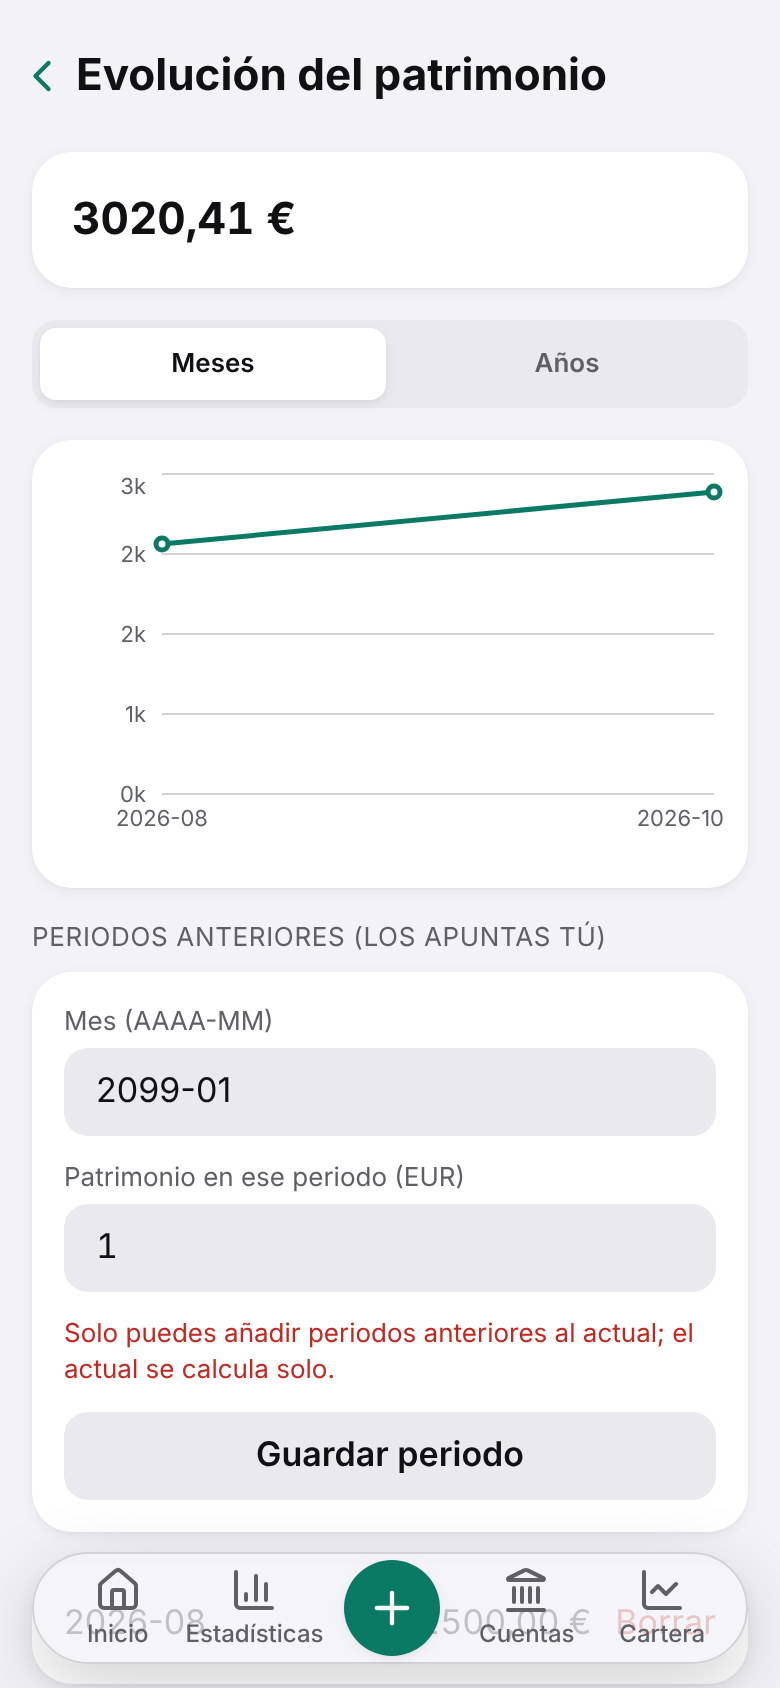
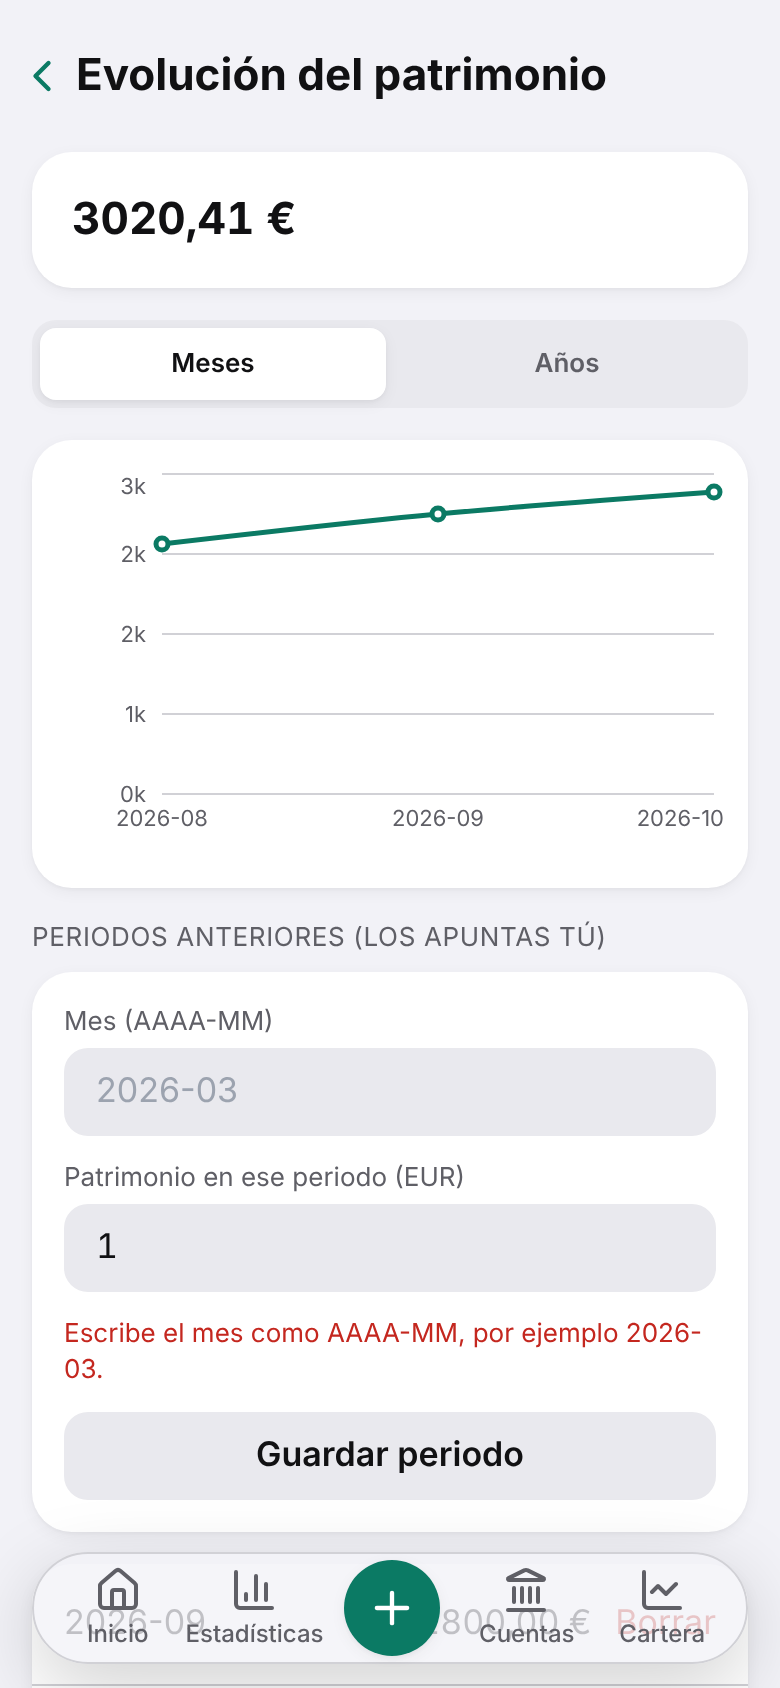
Vibración al tocar, opcional y experimental (#4)
Claude-Session: https://claude.ai/code/session_01WbKhADCuFWBPoVLx2G26Bw

diff --git a/app/src/pages/SettingsPages.tsx b/app/src/pages/SettingsPages.tsx
@@ -10,6 +10,7 @@ import { toCents } from '../lib/money';
 import { exportBackup, restoreBackup, summarizeBackup, validateBackup, wipeAll, type Backup } from '../lib/backup';
 import { aiInstructions, commitImport, CSV_TEMPLATE, MAX_IMPORT_ROWS, parseImport, transactionsToCsv, undoImport, type ImportRow } from '../lib/csvio';
 import { checkPin, clearPin, setPin } from '../lib/lock';
+import { tap } from '../lib/haptics';
 import { download, fmtBytes, requestPersistence, shareOrDownload, storageStatus, type StorageStatus } from '../lib/storage';
 import { useFx, useMoney, useSetting } from '../lib/hooks';
 import { BackHeader, DangerButton, Field, Group, Row, Section, Skeleton, Banner, fmtDate } from '../components/ui';
@@ -401,6 +402,7 @@ export function DataPage() {
 export function Preferences() {
   const theme = useSetting<string>('theme', 'auto') ?? 'auto';
   const currency = useSetting<string>('currency', 'EUR') ?? 'EUR';
+  const haptics = useSetting<boolean>('haptics', false) ?? false;
   return (
     <>
       <BackHeader title="Preferencias" to="/settings" />
@@ -410,7 +412,11 @@ export function Preferences() {
         <label className="flex min-h-tap items-center justify-between px-4"><span>Tema</span>
           <select className="bg-transparent text-text-muted outline-none" value={theme} onChange={(e) => setSetting('theme', e.target.value)}>
             <option value="auto">Automático</option><option value="light">Claro</option><option value="dark">Oscuro</option></select></label>
+        <label className="flex min-h-tap items-center justify-between px-4"><span>Vibración al tocar (experimental)</span>
+          <input type="checkbox" role="switch" className="size-6" checked={haptics} onChange={(e) => { void setSetting('haptics', e.target.checked); }} aria-label="Vibración al tocar" /></label>
+        {haptics && <Row onClick={() => tap()} right={<span className="text-accent">Probar</span>}>Probar el toque</Row>}
       </Group>
+      <p className="mt-3 text-footnote text-text-muted">Para que el <strong>teclado</strong> vibre al escribir, actívalo en el iPhone: Ajustes &gt; Sonidos y vibración &gt; Respuesta del teclado &gt; Vibración. La vibración de los botones depende de tu versión de iOS y de que la «Respuesta háptica del sistema» esté activada en esos mismos ajustes.</p>
       <p className="mt-3 text-footnote text-text-muted">Cambiar la moneda principal no modifica tus cuentas: solo cómo se suman los totales.</p>
     </>
   );

diff --git a/app/src/lib/haptics.ts b/app/src/lib/haptics.ts
@@ -1,0 +1,51 @@
+import { useEffect } from 'react';
+import { useSetting } from './hooks';
+
+/**
+ * Toque háptico al pulsar botones.
+ * - Android y navegadores con Vibration API: navigator.vibrate.
+ * - iPhone: Safari no tiene esa API, pero (iOS 17.4+) un interruptor nativo `<input type="checkbox" switch>`
+ *   da un toque háptico al activarse. Se mantiene uno oculto y se «pulsa» desde un toque real del usuario.
+ *   No hay forma de comprobar desde fuera si el móvil llega a vibrar: depende del iOS y de que el
+ *   «Respuesta háptica del sistema» esté activado en Ajustes > Sonidos y vibración.
+ */
+let label: HTMLLabelElement | null = null;
+
+function ensureSwitch(): HTMLLabelElement {
+  if (label?.isConnected) return label;
+  label = document.createElement('label');
+  label.setAttribute('aria-hidden', 'true');
+  label.setAttribute('data-haptic-ignore', '');
+  label.style.cssText = 'position:fixed;left:-100px;top:-100px;width:1px;height:1px;opacity:0;pointer-events:none;overflow:hidden';
+  const input = document.createElement('input');
+  input.type = 'checkbox';
+  input.setAttribute('switch', '');
+  input.tabIndex = -1;
+  label.appendChild(input);
+  document.body.appendChild(label);
+  return label;
+}
+
+export function tap(): void {
+  try {
+    if (typeof navigator.vibrate === 'function') { navigator.vibrate(10); return; }
+    ensureSwitch().click();
+  } catch { /* sin soporte: no pasa nada */ }
+}
+
+const INTERACTIVE = 'button,a[href],[role="radio"],[role="switch"],select,summary,input[type="checkbox"],input[type="radio"]';
+
+/** Con la opción activada, cada toque en un control real da un toque háptico. */
+export function useHaptics() {
+  const on = useSetting<boolean>('haptics', false);
+  useEffect(() => {
+    if (!on) return;
+    const handler = (e: Event) => {
+      const t = e.target as Element | null;
+      if (!t?.closest || t.closest('[data-haptic-ignore]')) return;
+      if (t.closest(INTERACTIVE)) tap();
+    };
+    document.addEventListener('click', handler, true);
+    return () => document.removeEventListener('click', handler, true);
+  }, [on]);
+}

diff --git a/app/src/App.tsx b/app/src/App.tsx
@@ -19,11 +19,13 @@ import { AccountPage, Budgets, Categories, DataPage, Goals, Preferences, Prices,
 import Welcome from './pages/Welcome';
 import Lock from './pages/Lock';
 import { UpdateBanner } from './components/UpdateBanner';
+import { useHaptics } from './lib/haptics';
 
 export default function App() {
   useInit();
   useTheme();
   usePendingBadge();
+  useHaptics();
   const currency = useSetting<string | null>('currency', null);
   const pinHash = useSetting<string | null>('pinHash', null);
   const [unlocked, setU] = useState(isUnlocked());

diff --git a/replica/test-plan.md b/replica/test-plan.md
@@ -19,3 +19,4 @@ Manual, en el iPhone real (no se puede automatizar aquí):
 7. Plan mensual: crear el plan, esperar al día (o poner el día de hoy) y confirmar una aportación cambiando la fecha.
 8. Avisos: seguir `worker/README.md`, activar los avisos y pulsar «Enviar aviso de prueba» con la app cerrada.
 9. Actualización: tras publicar una versión nueva, abrir la app (puede verse la anterior), cerrarla y reabrirla: debe salir la nueva sin pasos extra. Con la app ya abierta, la siguiente versión debe mostrar el banner «Hay una versión nueva · Actualizar».
+10. Vibración al tocar: Ajustes > Preferencias > activar «Vibración al tocar» y pulsar «Probar el toque». Es experimental en iPhone (iOS 17.4 o superior); si no vibra, comprobar Ajustes > Sonidos y vibración > Respuesta háptica del sistema.
